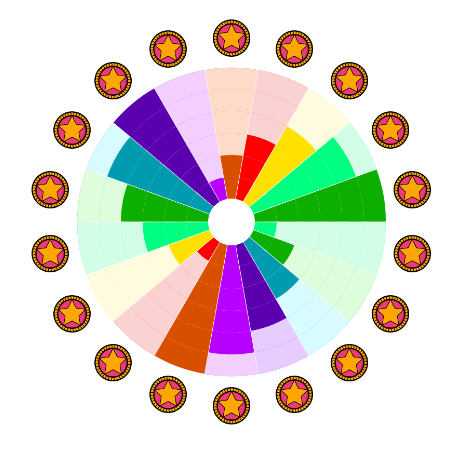
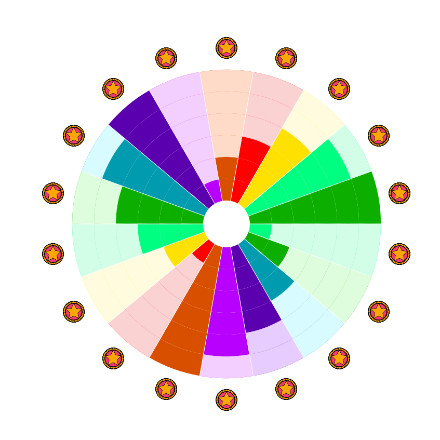
Update README.md

diff --git a/README.md b/README.md
@@ -145,7 +145,7 @@ and all of them is arbitary,and can change via xml or java code/
         app:acv_lines_space="0dp"
         app:acv_sections_count="18"
         app:acv_sections_space="0dp"
-        app:acv_icon_size="24dp"
+        app:acv_icon_size="14dp"
         app:acv_mid_start_extra_offset="8dp"
         />
 ```
